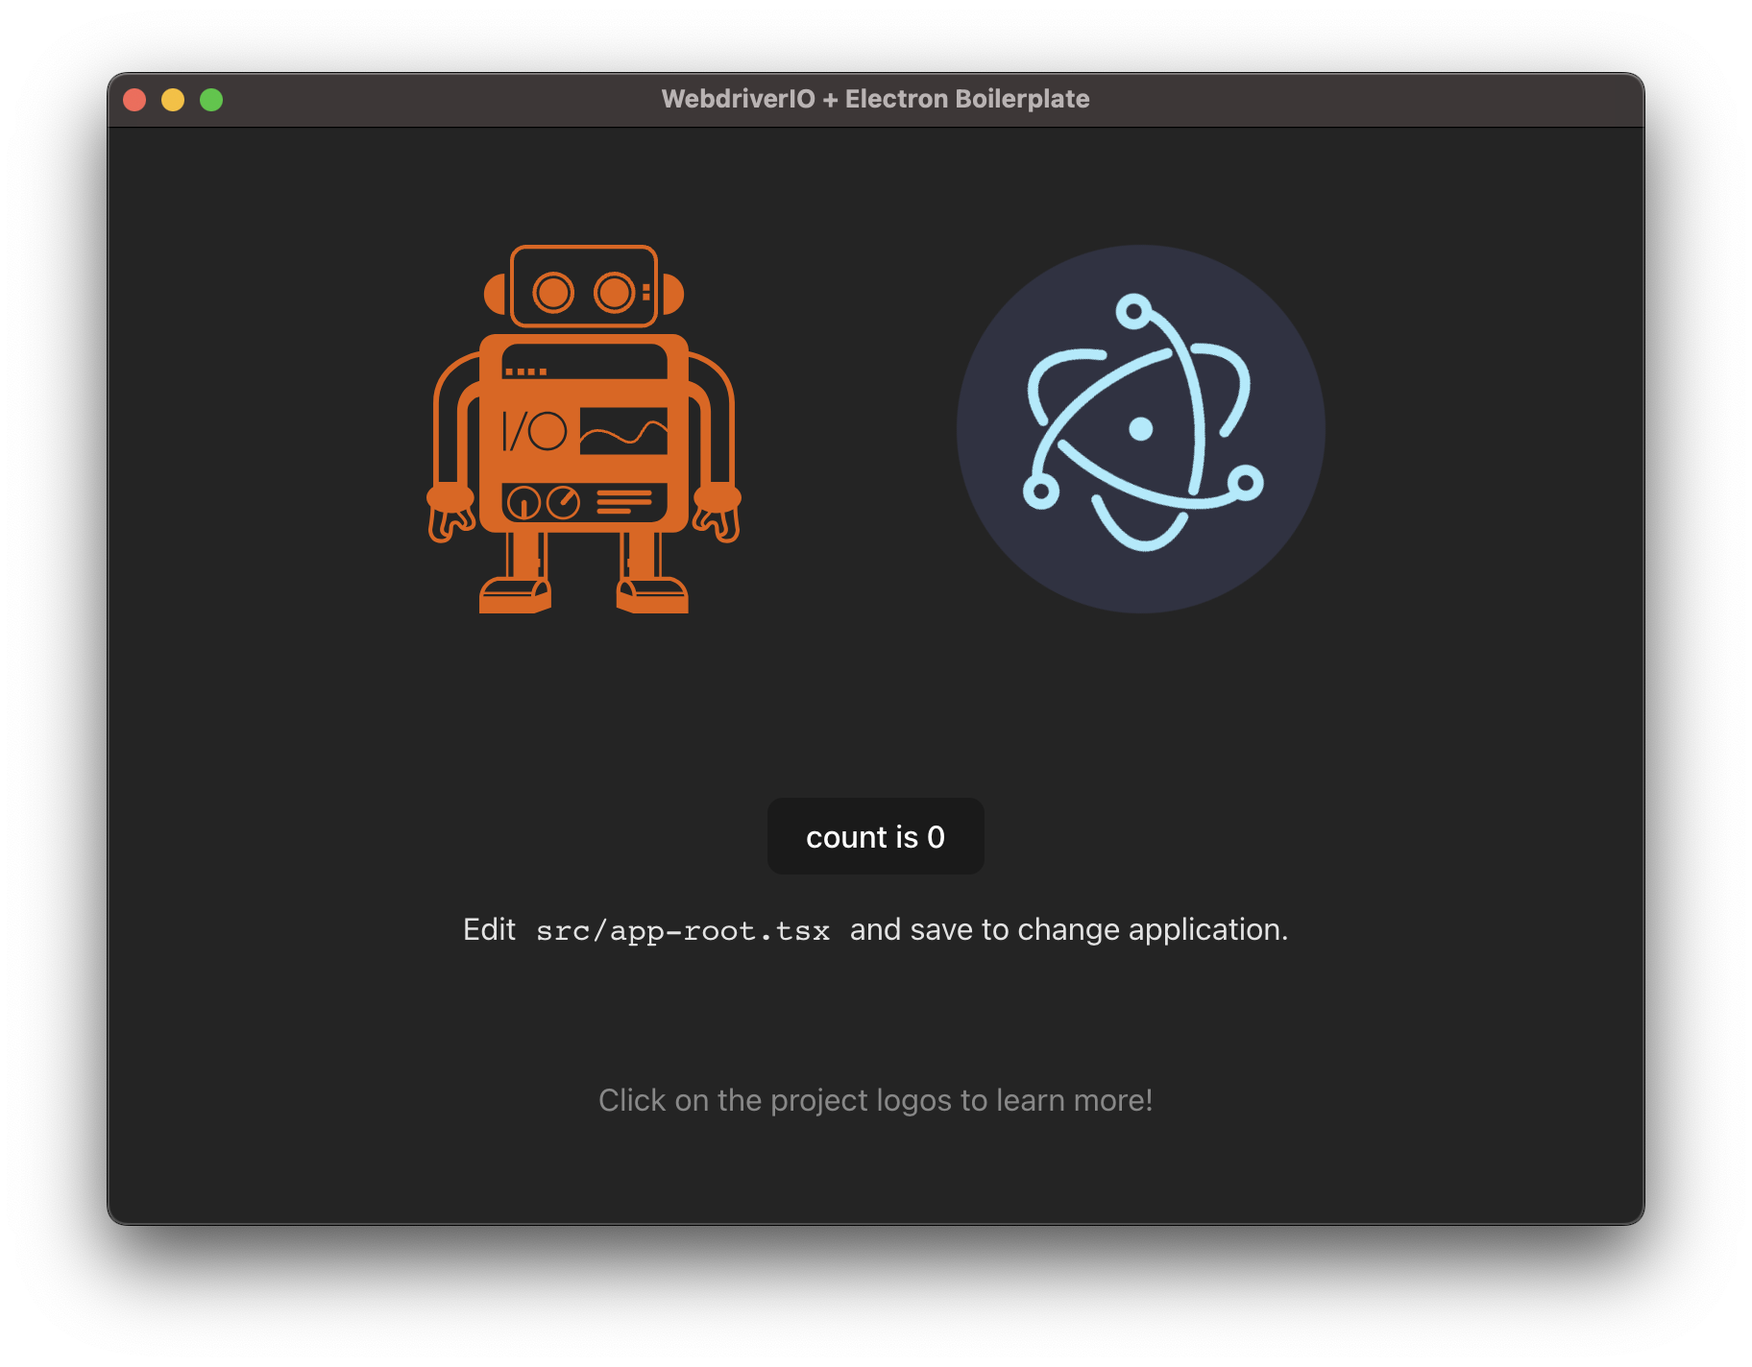
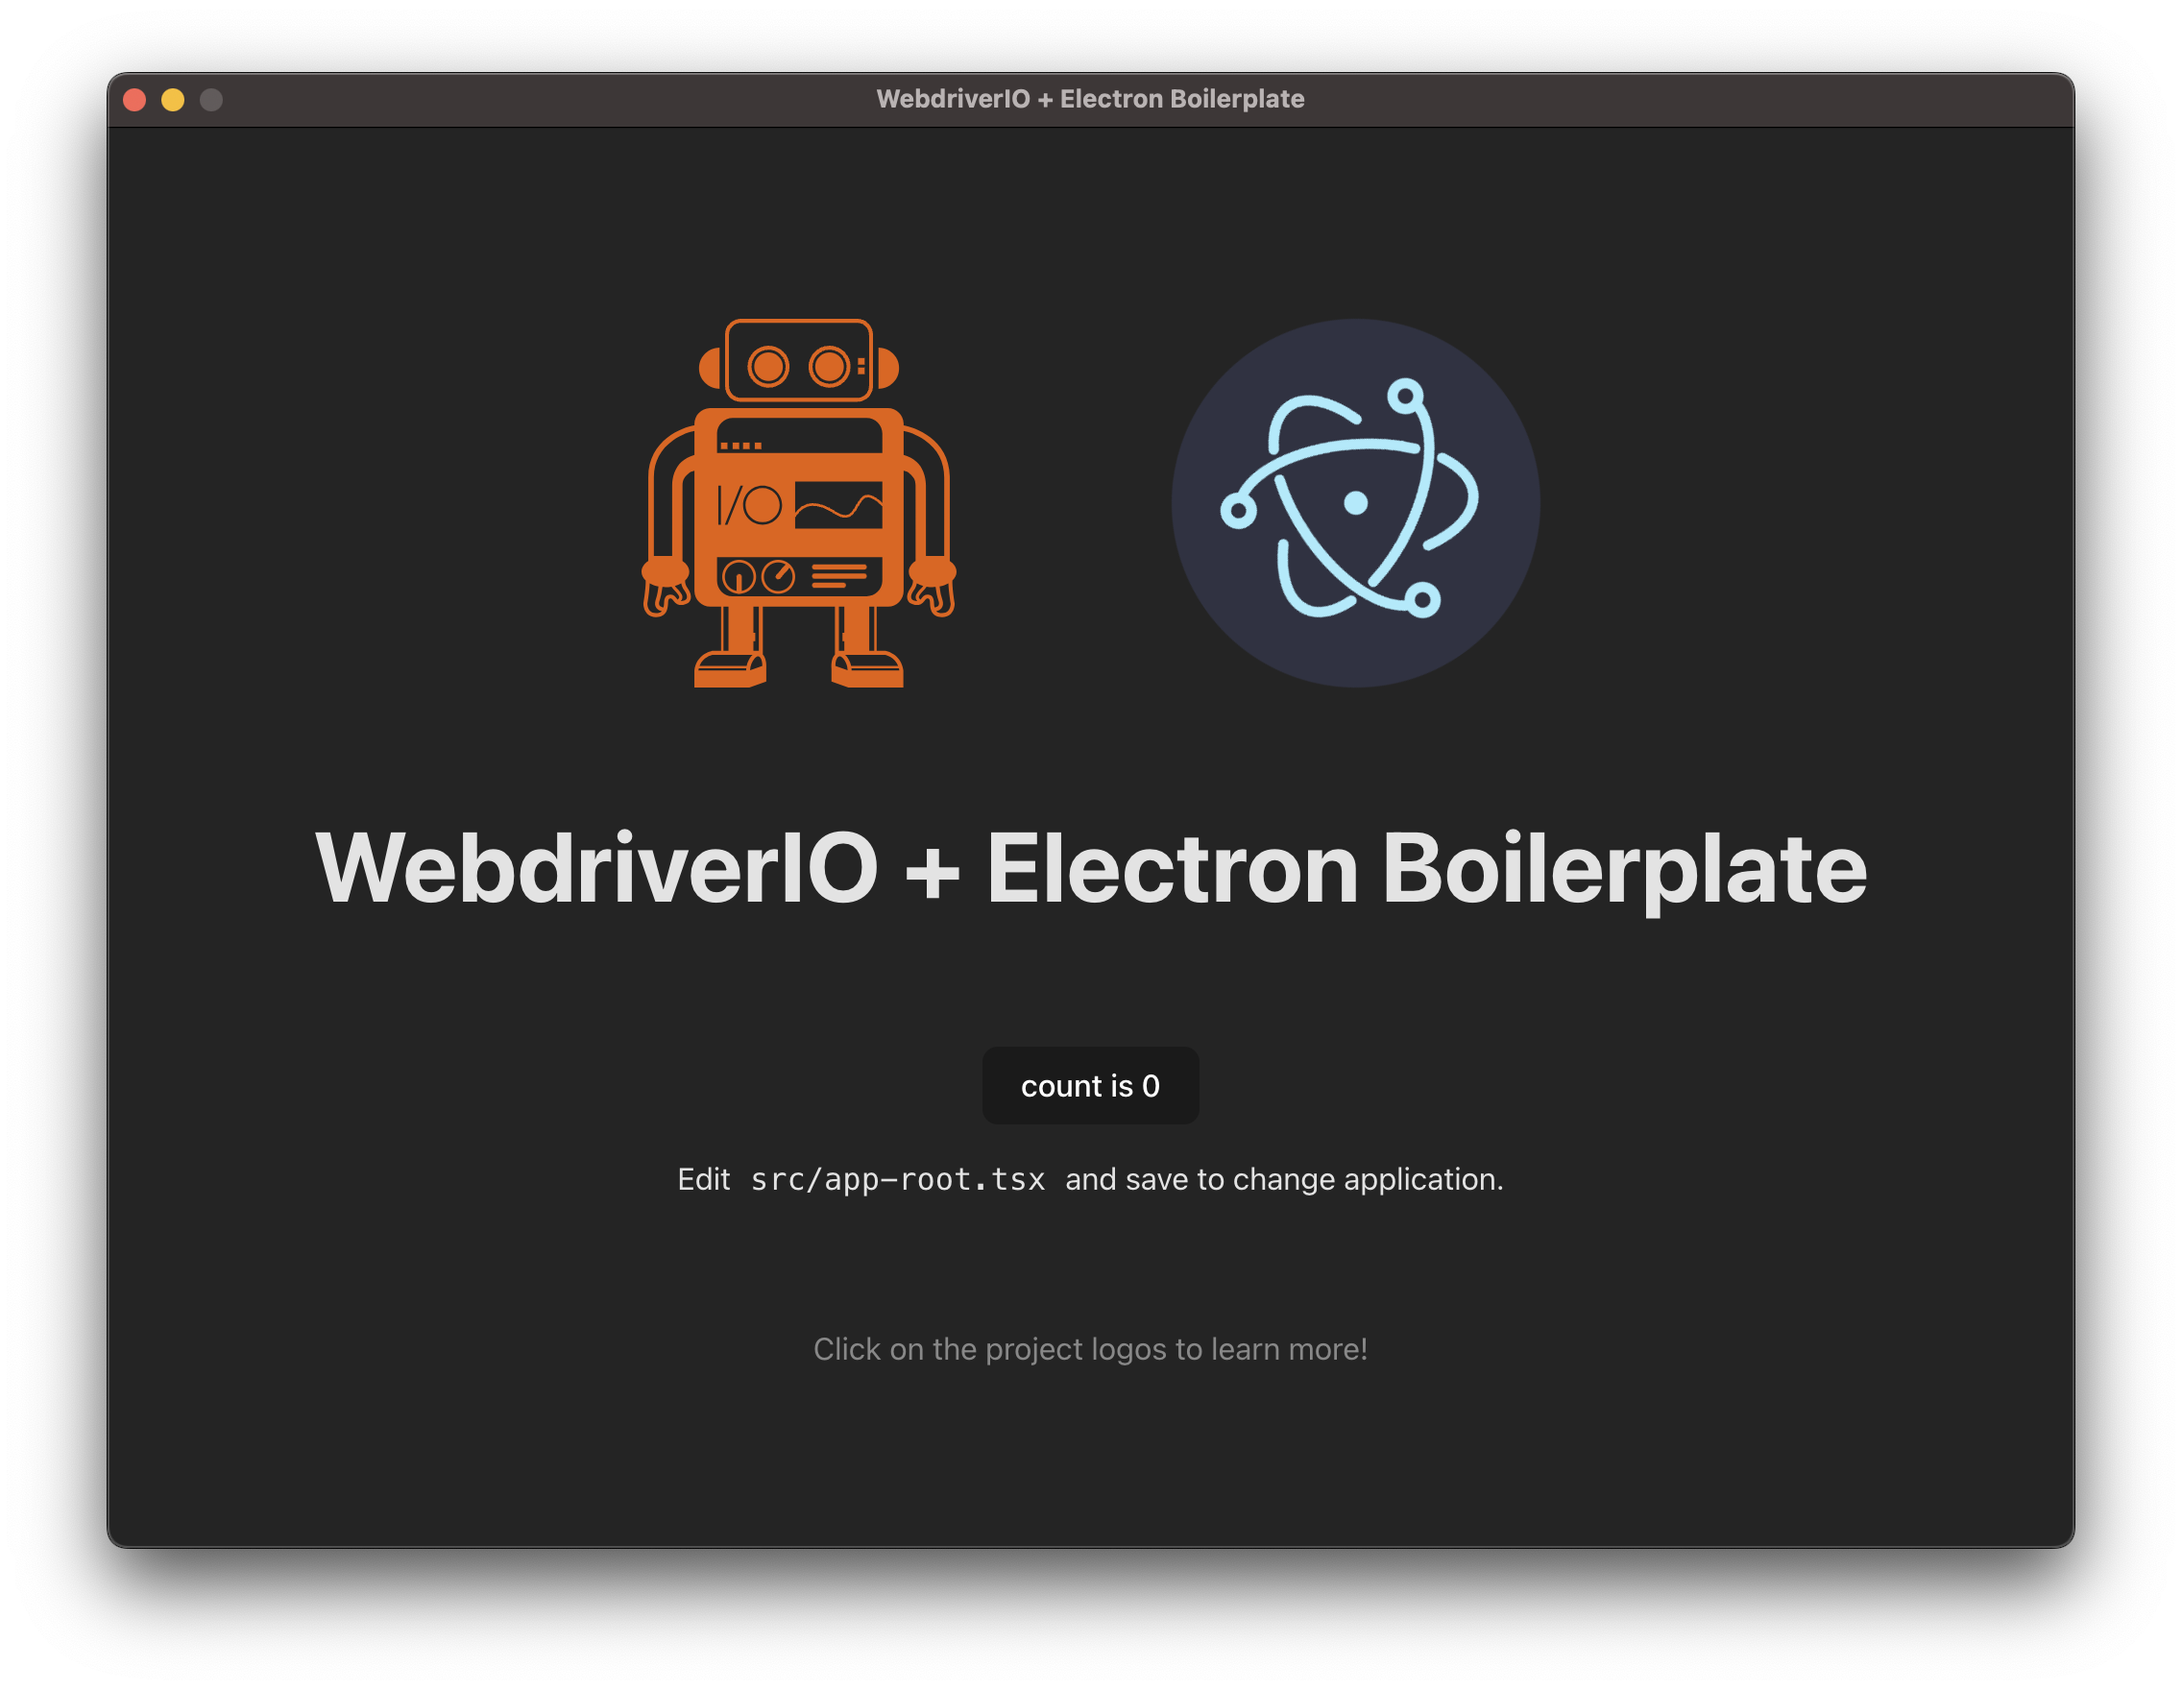
add multiremote example

diff --git a/test/e2e/multiremote.e2e.ts b/test/e2e/multiremote.e2e.ts
@@ -1,0 +1,41 @@
+import { Key } from 'webdriverio'
+import { multiremotebrowser } from "@wdio/globals"
+
+describe('Multiremote', () => {
+  it('should open chat window', async () => {
+    const app = multiremotebrowser.getInstance('app')
+    const browser = multiremotebrowser.getInstance('browser')
+
+    app.electron.api('openChatWindow')
+    await app.waitUntil(async () => (
+      (await app.getTitle()) === 'Socket.IO Chat Example'
+    ))
+
+    await browser.url('https://socketio-chat-h9jt.herokuapp.com/')
+    await browser.keys('Browser User')
+    await browser.pause(3000)
+    await app.keys('App User')
+    await multiremotebrowser.keys(Key.Enter)
+  })
+
+  it('have app user write a message', async () => {
+    const app = multiremotebrowser.getInstance('app')
+    await app.keys(`Hello World, I am user foobar-${Date.now()}`)
+    await app.keys(Key.Enter)
+  })
+
+  it('read message in browser', async () => {
+    const browser = multiremotebrowser.getInstance('browser')
+    await browser.waitUntil(async () => (
+      await browser.$$('.messages > li').length > 0
+    ))
+    const messages = await browser.$$('.messages > li')
+    const lastMessage = messages[messages.length - 1]
+    await expect(lastMessage).toHaveTextContaining('Hello World, I am user foobar-')
+
+    const appUsername = (await lastMessage.getText()).split(' ').pop()
+    await browser.keys(`Hello ${appUsername}, I am barfoo-${Date.now()}`)
+    await browser.keys(Key.Enter)
+    await browser.pause(2000)
+  })
+})

diff --git a/src/app.ts b/src/app.ts
@@ -1,6 +1,6 @@
 import path from 'node:path'
 
-import { app, shell, ipcMain, dialog, BrowserWindow, type MessageBoxOptions } from 'electron'
+import { app, shell, ipcMain, dialog, BrowserWindow, type MessageBoxOptions, type IpcMainInvokeEvent } from 'electron'
 import squirrelStartup from 'electron-squirrel-startup'
 
 // Handle creating/removing shortcuts on Windows when installing/uninstalling.
@@ -18,8 +18,8 @@ if (isTest) {
 const createWindow = () => {
   // Create the browser window.
   const mainWindow = new BrowserWindow({
-    width: 800,
-    height: 600,
+    width: 1024,
+    height: 768,
     title,
     resizable: false,
     webPreferences: {
@@ -45,6 +45,12 @@ const createWindow = () => {
   ipcMain.on('dialog', (_: any, params: MessageBoxOptions) => {
     dialog.showMessageBox(params);
   });
+
+  ipcMain.handle('wdio-electron', (_: IpcMainInvokeEvent, cmd: string) => {
+    if (cmd === 'openChatWindow') {
+      mainWindow.loadURL('https://socketio-chat-h9jt.herokuapp.com/')
+    }
+  })
 }
 
 // This method will be called when Electron has finished

diff --git a/test/wdio.multiremote.conf.ts b/test/wdio.multiremote.conf.ts
@@ -1,0 +1,18 @@
+import { config as baseConfig } from './wdio.conf'
+
+export const config: WebdriverIO.Config = {
+  ...baseConfig,
+  specs: ['./e2e/multiremote.e2e.ts'],
+  capabilities: {
+    browser: {
+      capabilities: {
+        browserName: 'chrome',
+      }
+    },
+    app: {
+      capabilities: {
+        browserName: 'electron',
+      }
+    }
+  }
+}

diff --git a/src/components/app-root/app-root.tsx b/src/components/app-root/app-root.tsx
@@ -70,7 +70,7 @@ export class AppRoot {
             and save to change application.
           </p>
         </div>
-        <p class="read-the-docs"> {this.docsHint}</p>
+        <p class="read-the-docs">{this.docsHint}</p>
       </>
     );
   }

diff --git a/test/wdio.conf.ts b/test/wdio.conf.ts
@@ -26,7 +26,7 @@ export const config: Options.Testrunner = {
     // will be called from there.
     //
     specs: [
-        './**/*.e2e.ts'
+        './e2e/test.e2e.ts'
     ],
     // Patterns to exclude.
     exclude: [

diff --git a/src/index.html b/src/index.html
@@ -19,7 +19,7 @@
 </head>
 <body>
 
-  <app-root></app-root>
+  <app-root>WebdriverIO + Electron Boilerplate</app-root>
 
 </body>
 </html>
